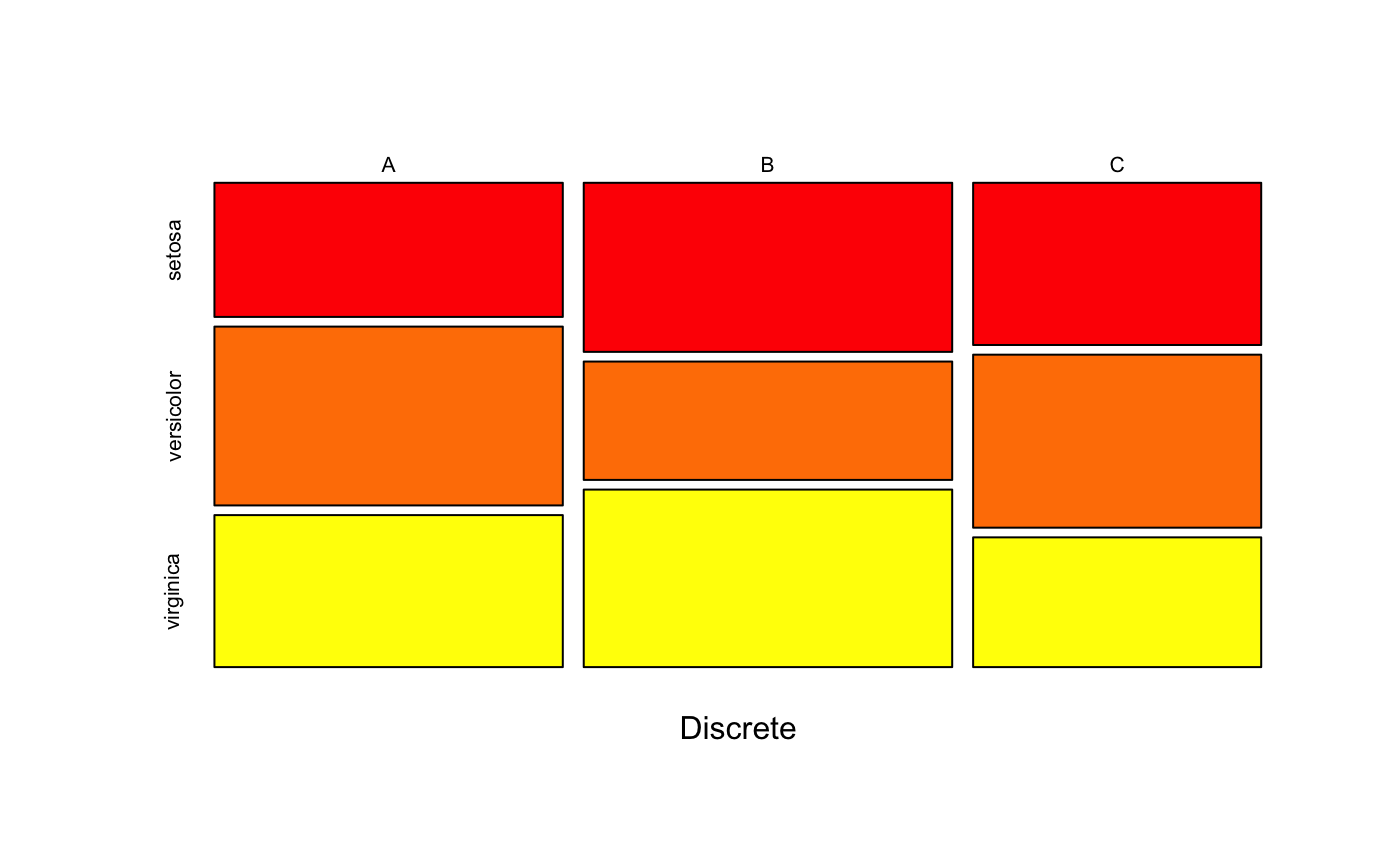
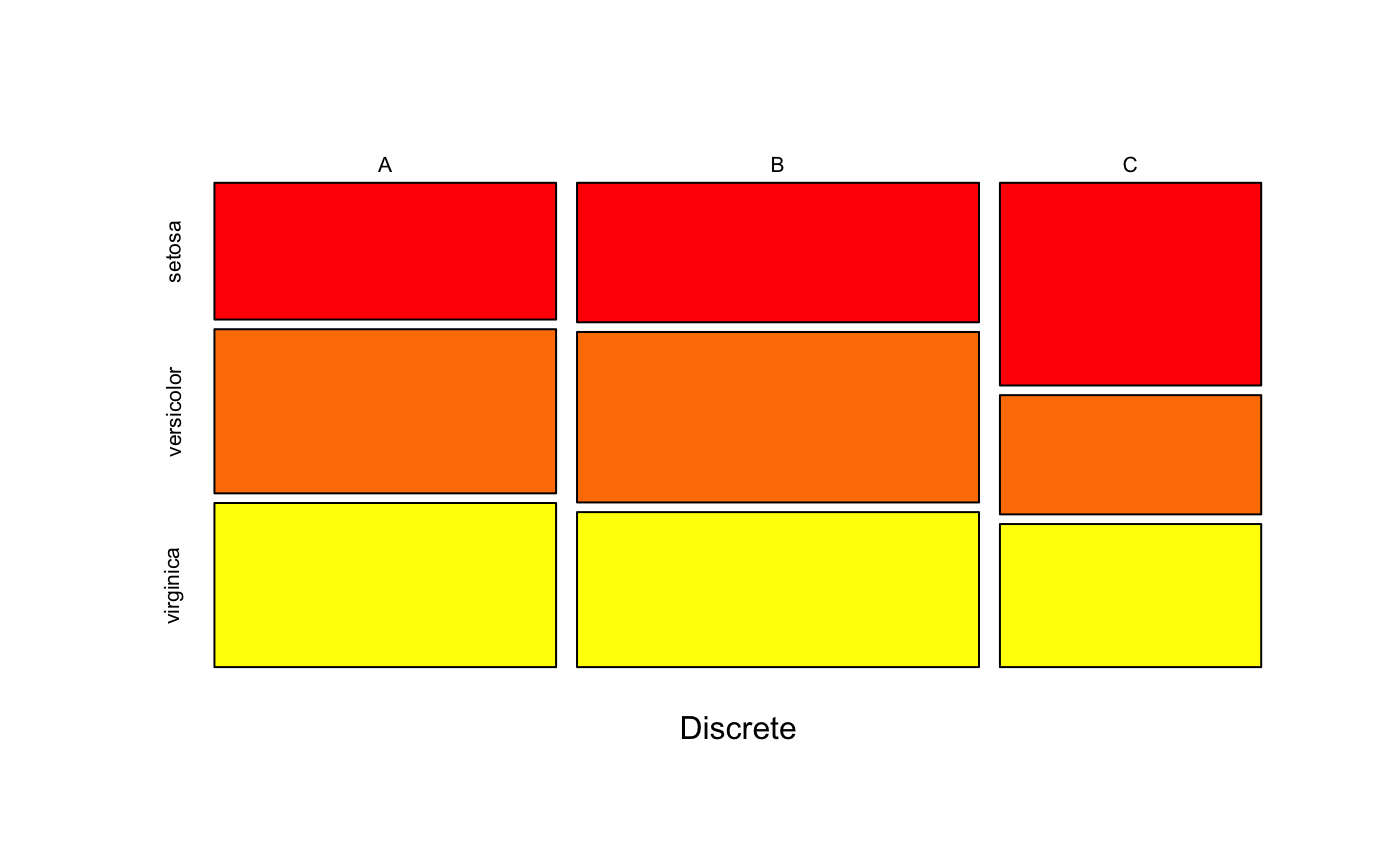
test

diff --git a/docs/index.html b/docs/index.html
@@ -131,16 +131,16 @@
 <a class="sourceLine" id="cb2-39" data-line-number="39"><span class="co">#&gt; ------------------------------------------------------------------------------</span></a>
 <a class="sourceLine" id="cb2-40" data-line-number="40"><span class="co">#&gt;         </span></a>
 <a class="sourceLine" id="cb2-41" data-line-number="41"><span class="co">#&gt; Discrete setosa versicolor virginica</span></a>
-<a class="sourceLine" id="cb2-42" data-line-number="42"><span class="co">#&gt;        A   0.30       0.40      0.34</span></a>
-<a class="sourceLine" id="cb2-43" data-line-number="43"><span class="co">#&gt;        B   0.40       0.28      0.42</span></a>
-<a class="sourceLine" id="cb2-44" data-line-number="44"><span class="co">#&gt;        C   0.30       0.32      0.24</span></a>
+<a class="sourceLine" id="cb2-42" data-line-number="42"><span class="co">#&gt;        A   0.30       0.36      0.36</span></a>
+<a class="sourceLine" id="cb2-43" data-line-number="43"><span class="co">#&gt;        B   0.36       0.44      0.40</span></a>
+<a class="sourceLine" id="cb2-44" data-line-number="44"><span class="co">#&gt;        C   0.34       0.20      0.24</span></a>
 <a class="sourceLine" id="cb2-45" data-line-number="45"><span class="co">#&gt; </span></a>
 <a class="sourceLine" id="cb2-46" data-line-number="46"><span class="co">#&gt; ------------------------------------------------------------------------------</span></a>
 <a class="sourceLine" id="cb2-47" data-line-number="47"><span class="co">#&gt;  ::: Counts (Poisson)</span></a>
 <a class="sourceLine" id="cb2-48" data-line-number="48"><span class="co">#&gt; ------------------------------------------------------------------------------</span></a>
 <a class="sourceLine" id="cb2-49" data-line-number="49"><span class="co">#&gt; </span></a>
 <a class="sourceLine" id="cb2-50" data-line-number="50"><span class="co">#&gt;        setosa versicolor virginica</span></a>
-<a class="sourceLine" id="cb2-51" data-line-number="51"><span class="co">#&gt; lambda   1.18       2.16     10.38</span></a>
+<a class="sourceLine" id="cb2-51" data-line-number="51"><span class="co">#&gt; lambda   1.06       2.12      9.58</span></a>
 <a class="sourceLine" id="cb2-52" data-line-number="52"><span class="co">#&gt; </span></a>
 <a class="sourceLine" id="cb2-53" data-line-number="53"><span class="co">#&gt; ------------------------------------------------------------------------------</span></a>
 <a class="sourceLine" id="cb2-54" data-line-number="54"></a>
@@ -161,9 +161,9 @@
 <a class="sourceLine" id="cb3-8" data-line-number="8"><span class="co">#&gt; ------------------------------------------------------------------------------</span></a>
 <a class="sourceLine" id="cb3-9" data-line-number="9"><span class="co">#&gt;         </span></a>
 <a class="sourceLine" id="cb3-10" data-line-number="10"><span class="co">#&gt; Discrete setosa versicolor virginica</span></a>
-<a class="sourceLine" id="cb3-11" data-line-number="11"><span class="co">#&gt;        A   0.30       0.40      0.34</span></a>
-<a class="sourceLine" id="cb3-12" data-line-number="12"><span class="co">#&gt;        B   0.40       0.28      0.42</span></a>
-<a class="sourceLine" id="cb3-13" data-line-number="13"><span class="co">#&gt;        C   0.30       0.32      0.24</span></a>
+<a class="sourceLine" id="cb3-11" data-line-number="11"><span class="co">#&gt;        A   0.30       0.36      0.36</span></a>
+<a class="sourceLine" id="cb3-12" data-line-number="12"><span class="co">#&gt;        B   0.36       0.44      0.40</span></a>
+<a class="sourceLine" id="cb3-13" data-line-number="13"><span class="co">#&gt;        C   0.34       0.20      0.24</span></a>
 <a class="sourceLine" id="cb3-14" data-line-number="14"><span class="co">#&gt; ------------------------------------------------------------------------------</span></a>
 <a class="sourceLine" id="cb3-15" data-line-number="15"></a>
 <a class="sourceLine" id="cb3-16" data-line-number="16"><span class="co"># Classification</span></a>
@@ -174,12 +174,12 @@
 <a class="sourceLine" id="cb3-21" data-line-number="21"><span class="co"># Posterior probabilities</span></a>
 <a class="sourceLine" id="cb3-22" data-line-number="22"><span class="kw"><a href="https://www.rdocumentation.org/packages/utils/topics/head">head</a></span>(<span class="kw"><a href="https://www.rdocumentation.org/packages/stats/topics/predict">predict</a></span>(nb, <span class="dt">type =</span> <span class="st">"prob"</span>))</a>
 <a class="sourceLine" id="cb3-23" data-line-number="23"><span class="co">#&gt;         setosa   versicolor    virginica</span></a>
-<a class="sourceLine" id="cb3-24" data-line-number="24"><span class="co">#&gt; [1,] 0.9999999 7.167583e-08 6.656368e-13</span></a>
-<a class="sourceLine" id="cb3-25" data-line-number="25"><span class="co">#&gt; [2,] 1.0000000 2.139091e-08 8.602143e-15</span></a>
-<a class="sourceLine" id="cb3-26" data-line-number="26"><span class="co">#&gt; [3,] 1.0000000 2.569628e-08 9.931648e-14</span></a>
-<a class="sourceLine" id="cb3-27" data-line-number="27"><span class="co">#&gt; [4,] 1.0000000 3.915624e-08 7.566970e-14</span></a>
-<a class="sourceLine" id="cb3-28" data-line-number="28"><span class="co">#&gt; [5,] 1.0000000 4.703727e-08 8.736483e-13</span></a>
-<a class="sourceLine" id="cb3-29" data-line-number="29"><span class="co">#&gt; [6,] 0.9999893 1.074990e-05 2.209905e-12</span></a></code></pre></div>
+<a class="sourceLine" id="cb3-24" data-line-number="24"><span class="co">#&gt; [1,] 1.0000000 2.262597e-08 2.358275e-14</span></a>
+<a class="sourceLine" id="cb3-25" data-line-number="25"><span class="co">#&gt; [2,] 0.9999999 9.050387e-08 1.926254e-12</span></a>
+<a class="sourceLine" id="cb3-26" data-line-number="26"><span class="co">#&gt; [3,] 1.0000000 2.221459e-08 2.546937e-14</span></a>
+<a class="sourceLine" id="cb3-27" data-line-number="27"><span class="co">#&gt; [4,] 1.0000000 2.262597e-08 2.358275e-14</span></a>
+<a class="sourceLine" id="cb3-28" data-line-number="28"><span class="co">#&gt; [5,] 1.0000000 2.177901e-08 1.354032e-13</span></a>
+<a class="sourceLine" id="cb3-29" data-line-number="29"><span class="co">#&gt; [6,] 0.9999777 2.232742e-05 5.913433e-11</span></a></code></pre></div>
 <div id="usage-with-caret-package" class="section level3">
 <h3 class="hasAnchor">
 <a href="#usage-with-caret-package" class="anchor"></a>Usage with Caret package</h3>
